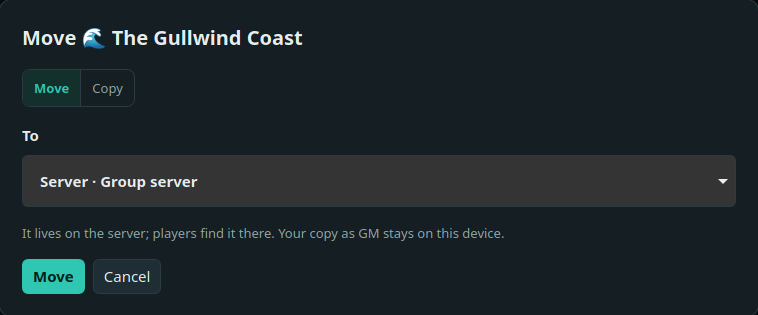
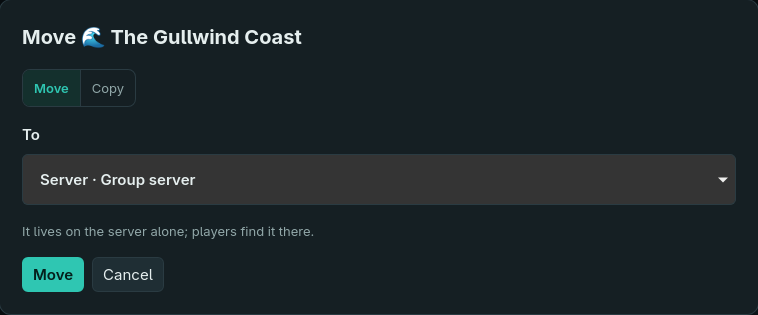
0.2.0: the docs, the README and the screenshots for world format 5
- Version 0.2.0: world format 5, servers and mailboxes; 0.1 worlds come
  over as packages.
- README: where worlds live (this device, a server, mailboxes), ways to
  meet, the data as plain files; new screenshots of the worlds, the world
  page and Move or copy.
- Server setup, the server's README and compose file without keys and
  encryption; the docs index, project layout, build and test bench pages
  brought up to date.
- The D&D 5e template and the package writer carry no levels any more.
- The admin's world list no longer allows for servers before 0.1.62.

diff --git a/source/apps/desktop/src/features/settings/Options.tsx b/source/apps/desktop/src/features/settings/Options.tsx
@@ -1386,8 +1386,7 @@ function ServerWorlds({ state, busy, order, onDelete }: { state: ServerState; bu
   return (
     <>
       {state.worlds.map((w) => {
-        // A server before 0.1.62 names no supporters.
-        const named = w.supporters ?? [];
+        const named = w.supporters;
         const supporters = w.members.filter((m) => named.includes(m.id));
         const players = w.members.filter((m) => !named.includes(m.id));
         return (

diff --git a/source/tools/import/awpack.py b/source/tools/import/awpack.py
@@ -181,8 +181,8 @@ class Package:
             json.dump(package, f, ensure_ascii=False)
 
 
-def part(section, text="", view="all", edit="gm", level="open", fields=None, title=""):
-    return {"section": section, "title": title, "text": text, "fields": fields or {}, "view": view, "edit": edit, "level": level}
+def part(section, text="", view="all", edit="gm", fields=None, title=""):
+    return {"section": section, "title": title, "text": text, "fields": fields or {}, "view": view, "edit": edit}
 
 
 def entry(id_, kind, target="", label="", children=None, gm=False):

diff --git a/source/tools/import/example_world.py b/source/tools/import/example_world.py
@@ -224,7 +224,7 @@ def add(type_id, name, fields=None, texts=None, own=None):
         text = awpack.stored_names(text, names)
         block = section(type_id, title)
         view = "gm" if title == "Secrets" else "all"
-        parts.append(part(block, text, view=view, level="gm" if view == "gm" else "open"))
+        parts.append(part(block, text, view=view))
     for n, (title, text) in enumerate(own or [], 1):
         parts.append(part(f"notes-{n}", text, title=title))
     P.document(doc(name), type_id, name, parts)

diff --git a/README.md b/README.md
@@ -7,7 +7,8 @@
 <p align="center"><a href="../../releases/latest"><b>Download</b></a> · <a href="#try-the-example-world">Example world</a> · <a href="source/docs/server-setup.md">Run a server</a> · <a href="source/docs/README.md">Documentation</a> · <a href="source/README.md">Build it yourself</a></p>
 
 > **In development.** Not meant for real use yet: formats may change,
-> and older worlds are not carried over when they do.
+> and older worlds are not carried over when they do. Worlds of 0.1 come over
+> as a package (*Options → Transfer*).
 
 <p align="center"><img src="source/docs/screenshots/world.png" width="820" alt="A world's start page with a map and its places"></p>
 
@@ -33,49 +34,45 @@
 | --- | --- |
 | <img src="source/docs/screenshots/character.png" alt="A character with a GM-only secret and a family tree"> | <img src="source/docs/screenshots/statblock.png" alt="A stat block with clickable rolls and the dice log"> |
 | A character: links, a section only the GM sees, the family tree | A stat block: the rolls in the text go to the dice log |
-| <img src="source/docs/screenshots/timeline.png" alt="The timeline of the world's events"> | <img src="source/docs/screenshots/worlds.png" alt="The start page: worlds on this device, in a shared folder and on a server"> |
+| <img src="source/docs/screenshots/timeline.png" alt="The timeline of the world's events"> | <img src="source/docs/screenshots/worlds.png" alt="The start page: worlds on this device, with mailboxes and on a server"> |
 | The timeline, in the world's own calendar and moons | Your worlds, and where each one lives |
 
 ## Where your worlds live
 
-A world lives where you make it – and only there, until you move it.
+A world lives in one place – and only there, until you move it.
 
 | Where | What it means | What you need |
 | --- | --- | --- |
-| **This device** | A folder on your computer. Works offline, alone or as the host for your group. | Nothing. |
-| **Another folder** | An external drive, a network drive or a folder your cloud app keeps in step – it counts as local. A shared cloud folder is also how a group can meet without any server: everyone works on the same world folder. | A folder; for a group, a sync app you already use. |
-| **A server** | Always on, so players can work while the GM's computer is off. It holds no keys and is not the GM. | `aw-server` in Docker – on a NAS, a home server or a rented one. [How to run it](source/docs/server-setup.md) |
+| **This device** | A folder on your computer. Works offline. Offered on the network, your app is the host for your group while it runs. | Nothing. |
+| **A server** | Always on, so players can work while the GM's computer is off. Everyone sees and changes what the world allows them – the server checks every request. | `aw-server` in Docker – on a NAS, a home server or a rented one. [How to run it](source/docs/server-setup.md) |
+| **No server: mailboxes** | For a group that plays apart. The world stays with the GM; each player gets a mailbox in a folder your cloud app keeps in step, and works offline in it. | A cloud folder you can share. |
 
 <img src="source/docs/screenshots/move-or-copy.png" width="560" align="right" alt="The Move or copy dialog">
 
 **Move or copy** is one button at the world (*Options → World → Where it lives*),
-for the GM only: to another folder, onto a server, back off it – or as a copy, a new
-world of its own. Bringing a world onto a server shows how far it is and goes on
-after a restart.
+for the GM only: to another folder, onto a server, into mailboxes, back – as often as
+you like – or as a copy, a new world of its own.
 
-**Players** never hold the world itself. They reach it through the GM's device, the
-shared folder or the server, and keep a local copy only if the GM allows it – of an
-encrypted world, where each copy opens only that player's part.
+**Players** never hold a world that lies on a device or a server: they work in it
+there, and see only what they may. Offline play is what mailboxes are for.
 
 **Ways to meet**, all without an account:
 
 - **At home:** with *Local network* switched on, the app finds the GM's worlds in the same
   network by itself.
-- **Over the internet, directly:** the GM's device gets a host code; players enter it.
+- **Over the internet, directly:** the GM's device gets a code; players enter it.
   A forwarded port or IPv6 makes it reliable; often it works without.
-- **Through a shared cloud folder:** devices of a world in such a folder meet there
-  and then connect directly.
 - **Through a server** of your own, as above.
+- **Through a shared cloud folder**, with mailboxes.
 
 <br clear="right">
 
 ## Your data
 
-- Everything lies in folders on your computer; you choose which ones on first start.
+- Everything lies in folders you choose on first start.
+- A world is one SQLite file and a folder of pictures: plain and readable without the app.
 - No account and no server of the maker. The group connects directly or through
   what it runs itself.
-- Encryption can be chosen per world and costs nothing extra. Unencrypted, a world's
-  folder also holds a readable copy: a text file per article, images as files.
 
 ## Try the example world
 

diff --git a/source/docs/README.md b/source/docs/README.md
@@ -11,10 +11,11 @@
 
 ## Architecture
 
-- [The journal of a world](architecture/journal.md): signed entries, read and write keys, versions, writing together.
+- [World format 5](architecture/world-format.md): a world as a plain SQLite database, the one view check, writing together, versions and review.
+- [The network](architecture/network.md): one place per world, the keeper, servers and the GM's app, finding, joining, moving, the admin.
+- [Mailboxes](architecture/mailboxes.md): worlds without a server, through a cloud folder; switching to and from a server.
 - [Storage locations](architecture/storage.md): profile and worlds, the choice on first start, moving.
-- [World format 4](architecture/world-format.md): a state and updates, one entry per version, drafts in the profile, version limit, deleting.
-- [Images](architecture/images.md): gallery, names, visibility through sections, metadata removed, originals in parts.
+- [Images](architecture/images.md): gallery, names, visibility through sections, metadata removed, originals unchanged.
 - [Windows beside](architecture/windows.md): documents and sections in their own windows, kept in step with each other.
 - [Calendar and timeline](architecture/calendar-timeline.md): world calendar, date with time, `<timeline>`, lists from properties, family trees.
 - [Property groups](architecture/property-groups.md): properties that several types include (`Scores: group Abilities`), nested, with a layout (`<view of=…>`) and computed values (`= [[…]]`, `Class.Hit die`).
@@ -22,14 +23,11 @@
 - [Maps](architecture/maps.md): `<map>` to pan and zoom, pins with a name and a target, layers that switch to the map of another document.
 - [Assigning players](architecture/assignment.md): documents, types and attributes per player, `view=self` for what belongs to the assigned player.
 - [Links](architecture/links.md): `@@Type:Name@@`, a property's value, anchors in the text (`@@#^c70ff9|the inn@@`).
-- [Backups](architecture/backups.md): on this device by hand, its keys sealed for the GM; on a server daily or weekly by itself, how many stay; restoring.
+- [Backups](architecture/backups.md): on this device by hand; on a server daily or weekly by itself, how many stay; restoring.
 
 ## Testing
 
-- [Finding and joining worlds on the LAN](testing/lan-join.md): network switch, join requests, a test run with two profiles.
-- [Local and mounted cloud folders](testing/folder-sync.md): several storage locations and working directly on world folders.
-- [Directly over the internet](testing/internet-direct.md): router port, STUN, meeting through the shared folder, hole punching without a relay.
-- [Host mode](testing/host.md): players work online against the GM's device, without their own copy; the host enforces views and rights.
-- [Server on a NAS](testing/server.md): `aw-server` – a door keeper without keys for the worlds of several GMs, with an admin; Docker image for Synology.
+- [The network by hand](testing/network.md): two copies of the app, a world on the GM's app, a local `aw-server`, moving.
+- [Mailboxes by hand](testing/mailboxes.md): a world without a server through a folder, a player offline, switching to a server.
 - [Players: a new id](testing/players.md): a player's new id takes the old one's place, with what was assigned to them.
 - [Browser test bench](testing/browser-testbench.md): checking the UI with real components and the Rust parser.

diff --git a/source/docs/development/ui.md b/source/docs/development/ui.md
@@ -59,7 +59,7 @@ Nothing is wider than its content needs.
 - A page of the options (`.type-page`) is a **column of at most 760 px**, aligned left. Rows, lists and switches do not grow with the window.
 - Only what shows many things side by side – the gallery, an editor – takes the room (`.type-page.wide`, classes of their own).
 - Input fields in a bar have a **fixed, fitting width**: a search about 220 px, not "the rest of the row".
-- The areas of the options stand in three groups: **This world** (World with name, symbol, keys and versions; Players, Types, Images, Calendar, Dice, Transfer), **This device** (Appearance, Shortcuts, Network, Storage) and **App** (About). Dice are in one place: at the top those of the world (GM), below them their look on this device. Without an open world only the device and About.
+- The areas of the options stand in three groups: **This world** (World with name, symbol, where it lives, backups and versions; Players, Types, Images, Calendar, Dice, Transfer), **This device** (Appearance, Shortcuts, Network, Storage) and **App** (About). Dice are in one place: at the top those of the world (GM), below them their look on this device. Without an open world only the device and About.
 - The **options window** is the same size for all areas: as wide as a page of the world (`--page-width` plus navigation) and centred. On a wide screen it does not grow; the gallery fills it, forms stay in their 760 px column.
 - The desktop window is at least 1080 px wide (`tauri.conf.json`), because that is what a document with its version bar needs. Windows showing something apart, and the phone, are narrower.
 
@@ -83,7 +83,7 @@ Checking is done with every new screen through the command `phone_view` (no butt
 
 As long as the GM has set nothing, the start page and all top types stand there. ✎ at the top of the bar switches to arranging: entries can be dragged (before, after, into a group), ＋ creates new ones, a click opens the settings on the right – *Access* (all or GM only), what it shows, *Label*, *Remove*. An entry "GM only" is marked red.
 
-The outline is stored as the control entry `Navigation` in the journal, encrypted like the types: the entries for everyone with `all OR players`, the whole with `gm`. Players therefore never get GM entries in the first place. Which documents stand under a type is decided by their own keyring; entries whose type or document they cannot open are missing. In the preview as a player the GM entries are missing too.
+The outline is stored in the world (`navigation`). Players never get the GM entries: where the world is held, they are left out of what a player receives (`navigation::for_players`). Which documents stand under a type is decided by what the player may see; entries whose type or document they cannot open are missing. In the preview as a player the GM entries are missing too.
 
 The device remembers what is folded open or shut. Wherever one goes, the path there folds open. "Find" filters by name. A type, unfolded, shows the first 60 documents and the one open right now; "… N more" below leads to the type's list. With a whole library (11,000 documents) the bar would otherwise stay at thousands of rows, and every page change would redraw it. Folded entries do not even work out their documents.
 

diff --git a/source/docs/server-setup.md b/source/docs/server-setup.md
@@ -1,8 +1,9 @@
 # Running a server
 
-`aw-server` keeps a group's worlds reachable while the GM's computer is off. It holds
-no keys and is not the GM: everyone proves who they are, and it lets them in where the
-world says they belong. One GM is its **admin** and manages it from the app.
+`aw-server` keeps a group's worlds reachable while the GM's computer is off. Everyone
+proves who they are; the server lets them in where the world says they belong and gives
+each member what their view and rights allow. One GM is its **admin** and manages it
+from the app.
 
 It is a single static program for x86-64 Linux, also as a Docker image. Any machine
 that runs Docker will do – a NAS, a home server, a small rented server.
@@ -68,18 +69,17 @@ or with a port, `worlds.example.org:4001` – or the full code. The admin then s
 **Manage** at the server: which GMs may bring worlds, which worlds are closed, who is
 turned away. A GM brings a world with *Options → World → Where it lives → Move or copy …*.
 
-With 0.1.56, a world on a server lies there and nowhere else: GM and players open and
-edit it through the server, and no device keeps a copy of it — the upload moves the
-GM's world there. Without the server it stays closed. Identity and keys remain on the
-devices; the server cannot decrypt an encrypted world. Backups are the copies there
-are: the server's own, and one taken by hand. Update all apps and the server to 0.1.56
-together.
+A world on a server lies there and nowhere else: GM and players open and edit it
+through the server, and no device keeps a copy of it — moving it there takes it off
+the GM's device. Without the server it stays closed. The server holds the worlds as
+plain files; protect its disk as you would any machine holding your campaign (disk
+encryption on the NAS volume). Update all apps and the server together: 0.2 speaks
+with 0.2 only.
 
 **Backups.** The server backs up each world it holds by itself — daily, the last
 seven kept, until the world's GM changes it under *Options → World → Backups*. They lie
 in `aw-server/backups/` beside the worlds, so the volume holds them too; copy that
-folder elsewhere now and then. A backup holds the world's files encrypted as they are;
-the keys stay with the GM.
+folder elsewhere now and then.
 
 ## On a Synology NAS
 
@@ -95,5 +95,5 @@ Container Manager runs on the x86-64 models (the "+" series).
 **Updating:** pull `latest` again under *Image* and recreate the container – the worlds
 stay in the folder.
 
-More detail – what the server does with encrypted and unencrypted worlds, the admin's
-view, limits – is in [Server on a NAS](testing/server.md).
+How it works – the admin's view, moving worlds, limits – is in
+[the network](architecture/network.md).

diff --git a/source/README.md b/source/README.md
@@ -2,7 +2,7 @@
 
 A worldbuilding and campaign wiki for tabletop role-playing games that works locally.
 The application is a Tauri desktop app with a React interface and shared Rust
-libraries for the data model, encryption and persistence.
+libraries for the data model, storage and the network.
 
 ## Running the application
 
@@ -79,14 +79,13 @@ Interactive UI flows are described in the [browser test bench](docs/testing/brow
 
 ## Current scope
 
-There are local identities, worlds, articles and templates, a [world calendar with a timeline](docs/architecture/calendar-timeline.md),
-encrypted layers with separate read and write rights, a signed [journal](docs/architecture/journal.md)
-with automatic saving and versions, [finding, joining and writing together
-on the LAN](docs/testing/lan-join.md) with visible cursors, and
-[several storage locations](docs/architecture/storage.md), including shared folders kept in sync
-by a cloud app – without tying in any provider. Through a shared folder the devices find
-each other and then write [directly over the internet](docs/testing/internet-direct.md).
-Players can also work online against the GM's device ([host mode](docs/testing/host.md))
-or against a [server on a NAS](docs/testing/server.md). Mobile is not built yet.
+Local identities, worlds, documents and types, a [world calendar with a timeline](docs/architecture/calendar-timeline.md),
+sections with separate read and write rights, automatic saving with versions
+and review ([world format 5](docs/architecture/world-format.md)), writing
+together with visible cursors, and [several storage locations](docs/architecture/storage.md).
+A world lies in one place — this device, a [server](docs/server-setup.md) or the GM's
+app offering it on the network ([the network](docs/architecture/network.md)) —
+or, without any server, with the GM and [mailboxes](docs/architecture/mailboxes.md)
+in a cloud folder. Mobile is not built yet.
 
 [Documentation overview](docs/README.md)

diff --git a/source/apps/server/README.md b/source/apps/server/README.md
@@ -1,9 +1,9 @@
 # aw-server
 
-The door keeper of a group's worlds — on a NAS, in a container. It holds no world's keys: everyone proves who they are, and it lets them in where the world says they belong. An encrypted world it passes on as it is, for the members' own keys; an unencrypted one it hosts online, with each member's view and rights. Its admin — a GM named at the start — manages it in the app: which GMs may bring worlds, which worlds are closed, who is turned away. GMs and players enter its code under *Options → Network → Servers and hosts*.
+The keeper of a group's worlds — on a NAS, in a container. Everyone proves who they are; it lets them in where the world says they belong and does each member's commands in their name, with their view and rights. Its admin — a GM named at the start — manages it in the app: which GMs may bring worlds, which worlds are closed, who is turned away. GMs and players add it on the start page with *Add server*.
 
 - Build: `python3 tools/build/server-image.py` → `programs/server-linux-x86_64/` beside `source/` (static binary and a Docker image archive).
 - Run: `docker load -i aw-server-<version>-docker.tar`, then `compose.yaml` with `AW_ADMIN` set.
-- Setting it up, with Docker or on a Synology NAS: `docs/server-setup.md`; how it works: `docs/testing/server.md`.
+- Setting it up, with Docker or on a Synology NAS: `docs/server-setup.md`; how it works: `docs/architecture/network.md`.
 
-The code is the desktop app's (`apps/desktop/src-tauri`, `src/server.rs`), built without its window: `cargo build -p aw-desktop --no-default-features --bin aw-server`.
+The code is the desktop app's (`apps/desktop/src-tauri`, `src/server.rs`, `src/keeper.rs`), built without its window: `cargo build -p aw-desktop --no-default-features --features server --bin aw-server`.

diff --git a/source/docs/development/project-layout.md b/source/docs/development/project-layout.md
@@ -2,7 +2,7 @@
 
 The folders separate product code, development tools, generated intermediate files
 and finished packages for distribution. A change of folders changes neither the
-campaign formats nor identities, encryption or the user's storage locations.
+world format nor identities or the user's storage locations.
 
 The repository is the release repository: three folders at the top.
 
@@ -54,11 +54,10 @@ source/
 │   │       └── browser/            Test bench, scenarios and browser driver
 │   └── server/                     The server's README, Dockerfile and compose file
 ├── crates/
-│   ├── aw-crypto/                  Identities and cryptography
-│   ├── aw-model/                   Campaign and article model and parser
-│   ├── aw-policy/                  Keys and access rules
-│   ├── aw-store/                   Durable journal and CRDT text
-│   └── aw-sync/                    LAN discovery, authenticated transport, shared folder
+│   ├── aw-crypto/                  Identities, ids, the passphrase lock
+│   ├── aw-model/                   Types, documents as text, rules, calendar, parser
+│   ├── aw-store/                   The world's database, merging, images, durable files
+│   └── aw-sync/                    Transport: QUIC, mDNS, router ports, STUN, messages
 ├── tools/
 │   ├── build/                     Shared build call and release collection
 │   ├── import/                    Package writer and the D&D 5e template

diff --git a/source/docs/development/builds.md b/source/docs/development/builds.md
@@ -129,12 +129,6 @@ cargo test --locked --workspace --exclude aw-sync
 cargo test --locked -p aw-sync --lib
 ```
 
-The online server regression also has a real encrypted loopback transport test (requires
-UDP socket permission, no real profiles or server):
-
-```sh
-cargo test --locked -p aw-desktop --lib encrypted_online_commands_use_a_real_server_and_fail_closed_after_disconnect -- --ignored
-```
 
 The ordinary server tests cover no-copy GM/player sessions, forbidden local fallbacks,
 chunked admission, acknowledged saves, lost connections and acknowledgements, signed

diff --git a/source/docs/testing/browser-testbench.md b/source/docs/testing/browser-testbench.md
@@ -67,7 +67,6 @@ node tests/browser/driver.mjs "http://localhost:5321/?stage=blank" /tmp/aw-pictu
 
 ## What it cannot do
 
-No Tauri, so no saving, no world, no encryption — the test bench stores
-nothing. Everything to do with keys is checked by the Rust tests in
-`aw-policy` and `aw-crypto`. And the window size at start you only see in the
+No Tauri, so no saving and no world — the test bench stores nothing. Who
+may see what is checked by the Rust tests in `aw-store` and `aw-desktop`. And the window size at start you only see in the
 real app.
